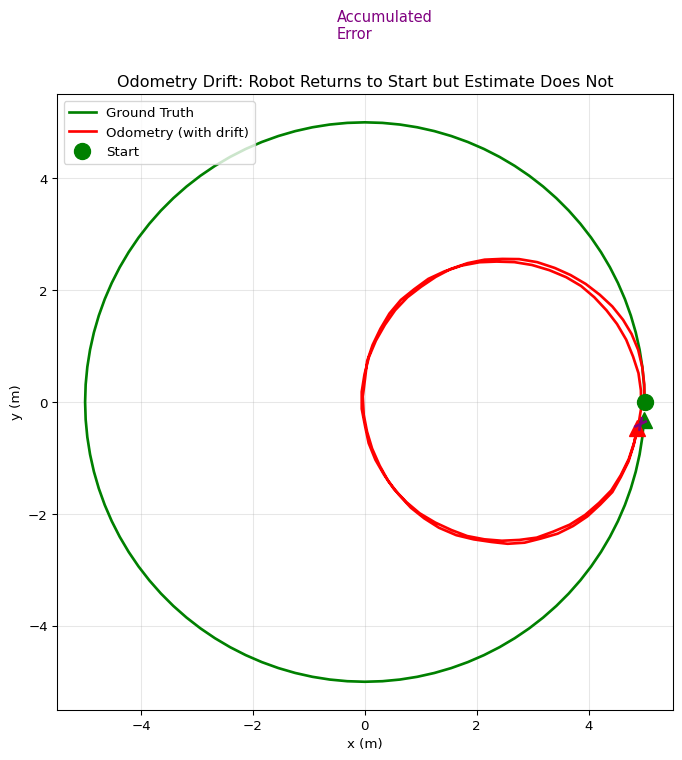
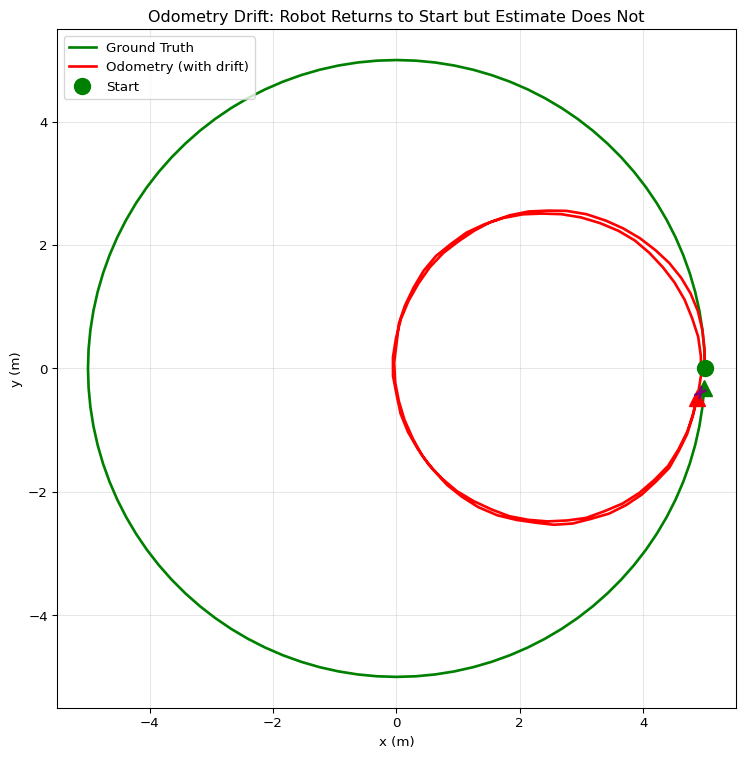
changes to odometry

diff --git a/lio.html b/lio.html
@@ -304,7 +304,7 @@ T^{-1} = T_{A}^{B} = \begin{bmatrix} R^T &amp; -R^T \mathbf{t} \\ \mathbf{0}^T &
 \]</span></p>
 </div>
 </section>
-<section id="extrinsic-calibration" class="slide level2">
+<section id="extrinsic-calibration" class="slide level2 smaller">
 <h2>Extrinsic Calibration</h2>
 <p>The transformation between rigidly mounted sensors is <strong>constant</strong>:</p>
 <ul>
@@ -336,7 +336,7 @@ T^{-1} = T_{A}^{B} = \begin{bmatrix} R^T &amp; -R^T \mathbf{t} \\ \mathbf{0}^T &
 </section>
 <section id="example-lidar-point-to-world-frame" class="slide level2">
 <h2>Example: LiDAR Point to World Frame</h2>
-<div id="24ff777d" class="cell" data-execution_count="2">
+<div id="0532bd00" class="cell" data-execution_count="2">
 <div class="sourceCode cell-code" id="cb1"><pre class="sourceCode numberSource python number-lines code-with-copy"><code class="sourceCode python"><span id="cb1-1"><a></a><span class="im">import</span> numpy <span class="im">as</span> np</span>
 <span id="cb1-2"><a></a></span>
 <span id="cb1-3"><a></a><span class="kw">def</span> make_se2(theta, tx, ty):</span>
@@ -363,7 +363,7 @@ T^{-1} = T_{A}^{B} = \begin{bmatrix} R^T &amp; -R^T \mathbf{t} \\ \mathbf{0}^T &
 </section>
 <section id="visualizing-the-transform-chain" class="slide level2">
 <h2>Visualizing the Transform Chain</h2>
-<div id="14b6c4d0" class="cell" data-execution_count="3">
+<div id="b01fd19e" class="cell" data-execution_count="3">
 <details class="code-fold">
 <summary>Code</summary>
 <div class="sourceCode cell-code" id="cb3"><pre class="sourceCode numberSource python number-lines code-with-copy"><code class="sourceCode python"><span id="cb3-1"><a></a>fig, ax <span class="op">=</span> plt.subplots(figsize<span class="op">=</span>(<span class="dv">8</span>, <span class="dv">6</span>))</span>
@@ -477,11 +477,11 @@ p^{A} &amp;= R\ p^{B} + d
 <h2>Example: Coordinate Transform vs Rigid Motion</h2>
 
 <img data-src="assets/images/trans-v-rigid-3.png" style="width:100.0%" class="r-stretch"><ul>
-<li><strong>Top row:</strong> Coordinate transform <span class="math inline">\(\left(R_B^A\right)^{-1}\)</span> - fixed points in moving frame</li>
-<li><strong>Bottom row:</strong> Rigid motion <span class="math inline">\(R_B^A\)</span> - moving points in fixed frame</li>
+<li><strong>Top row:</strong> Coordinate transform <span class="math inline">\(\left(R_B^A\right)^{-1}\)</span> - fixed points in <span class="math inline">\(A\)</span> seen by moving frame <span class="math inline">\(B\)</span></li>
+<li><strong>Bottom row:</strong> Rigid motion <span class="math inline">\(R_B^A\)</span> - fixed points in moving frame <span class="math inline">\(B\)</span> seen by fixed frame <span class="math inline">\(A\)</span></li>
 </ul>
 </section>
-<section id="special-euclidean-group-mathrmse3" class="slide level2">
+<section id="special-euclidean-group-mathrmse3" class="slide level2 smaller">
 <h2>Special Euclidean Group <span class="math inline">\(\mathrm{SE}(3)\)</span></h2>
 <div class="callout callout-important callout-titled callout-style-default">
 <div class="callout-body">
@@ -493,16 +493,22 @@ p^{A} &amp;= R\ p^{B} + d
 </div>
 <div class="callout-content">
 <p>Coordinates of points in 3D Euclidean space = <span class="math inline">\(p^A \in \mathbb{R}^3\)</span></p>
-<p>Coordinates of cartesian frames in 3D Euclidean space = <span class="math inline">\((d,R) \in \mathbb{R}^3 \times \mathrm{SO}(3)\)</span></p>
+<p>Coordinates of cartesian frames in 3D Euclidean space = <span class="math inline">\((d,R) \in \mathrm{SE}(3) = \mathbb{R}^3 \times \mathrm{SO}(3)\)</span></p>
 </div>
 </div>
 </div>
 <p><strong>Points : Euclidean Space :: Cartesian Frames : Special Euclidean Group</strong></p>
-<p>Affine Space : Euclidean Space :: <span class="math inline">\(G\)</span>-Torsor : Special Euclidean Group</p>
-<p><span class="math inline">\(G\)</span>-Torsor: A group <span class="math inline">\(G\)</span> with an action that maps a group element to another group element</p>
-<p>Again, no coordinate frame is unique.</p>
-<p>For a <span class="math inline">\(G\)</span>-Torsor, we don’t define origin+basis (not a vector space).</p>
-<p>Instead, we define an identity element (it’s a group): the reference coordinate frame.</p>
+<ul>
+<li><p><span class="math inline">\(G\)</span>-Torsor: A group <span class="math inline">\(G\)</span> with an action that maps a group element to another group element</p></li>
+<li><p>No coordinate frame is unique.</p></li>
+<li><p>For <span class="math inline">\(\mathrm{SE}(3)\)</span>, a <span class="math inline">\(G\)</span>-Torsor, we don’t define origin+basis (not a vector space).</p></li>
+<li><p>Instead, we define an identity element (it’s a group): the reference coordinate frame.</p></li>
+</ul>
+</section></section>
+<section>
+<section id="odometry-sneak-peek" class="title-slide slide level1 center">
+<h1>Odometry: Sneak Peek</h1>
+
 </section>
 <section id="the-odometry-problem" class="slide level2">
 <h2>The Odometry Problem</h2>
@@ -550,7 +556,7 @@ T_{ B_{k+1}}^{W} = T_{ B_k}^{W} \cdot T_{ B_{k+1}}^{B_k}
 </section>
 <section id="drift-in-lidar-odometry" class="slide level2">
 <h2>Drift in LiDAR Odometry</h2>
-<div id="0b6f72de" class="cell" data-execution_count="4">
+<div id="e90a6903" class="cell" data-execution_count="4">
 <details class="code-fold">
 <summary>Code</summary>
 <div class="sourceCode cell-code" id="cb4"><pre class="sourceCode numberSource python number-lines code-with-copy"><code class="sourceCode python"><span id="cb4-1"><a></a>np.random.seed(<span class="dv">42</span>)</span>
@@ -606,7 +612,7 @@ T_{ B_{k+1}}^{W} = T_{ B_k}^{W} \cdot T_{ B_{k+1}}^{B_k}
 <span id="cb4-51"><a></a>ax.annotate(<span class="st">''</span>, xy<span class="op">=</span>(noisy_poses[<span class="op">-</span><span class="dv">1</span>, <span class="dv">0</span>], noisy_poses[<span class="op">-</span><span class="dv">1</span>, <span class="dv">1</span>]),</span>
 <span id="cb4-52"><a></a>            xytext<span class="op">=</span>(true_poses[<span class="op">-</span><span class="dv">1</span>, <span class="dv">0</span>], true_poses[<span class="op">-</span><span class="dv">1</span>, <span class="dv">1</span>]),</span>
 <span id="cb4-53"><a></a>            arrowprops<span class="op">=</span><span class="bu">dict</span>(arrowstyle<span class="op">=</span><span class="st">'&lt;-&gt;'</span>, color<span class="op">=</span><span class="st">'purple'</span>, lw<span class="op">=</span><span class="dv">2</span>))</span>
-<span id="cb4-54"><a></a>ax.text(<span class="op">-</span><span class="fl">0.5</span>, <span class="fl">6.5</span>, <span class="st">'Accumulated</span><span class="ch">\n</span><span class="st">Error'</span>, fontsize<span class="op">=</span><span class="dv">11</span>, color<span class="op">=</span><span class="st">'purple'</span>)</span>
+<span id="cb4-54"><a></a><span class="co">#ax.text(-0.5, 6.5, 'Accumulated\nError', fontsize=11, color='purple')</span></span>
 <span id="cb4-55"><a></a></span>
 <span id="cb4-56"><a></a>ax.set_xlabel(<span class="st">'x (m)'</span>)</span>
 <span id="cb4-57"><a></a>ax.set_ylabel(<span class="st">'y (m)'</span>)</span>
@@ -665,19 +671,16 @@ T_{ B_{k+1}}^{W} = T_{ B_k}^{W} \cdot T_{ B_{k+1}}^{B_k}
 <p><strong>Gyroscope</strong> (simpler case): <span class="math display">\[
 \omega^{meas} = \omega^{true} + b_\omega + n_\omega
 \]</span></p>
-<div class="fragment">
 <p><strong>Accelerometer</strong> (includes gravity): <span class="math display">\[
 a^{meas} = R^T(a^{true} - g) + b_a + n_a
 \]</span></p>
-</div>
-<div class="fragment">
 <p>where:</p>
 <ul>
-<li><span class="math inline">\(b\)</span>: slowly varying bias</li>
-<li><span class="math inline">\(n\)</span>: white noise</li>
+<li><span class="math inline">\(b_{(\cdot)}\)</span>: slowly varying bias</li>
+<li><span class="math inline">\(n_{(\cdot)}\)</span>: white noise</li>
 <li><span class="math inline">\(g\)</span>: gravity vector (≈ 9.81 m/s² pointing down)</li>
+<li><span class="math inline">\(R\)</span>: Orientation of IMU-fixed frame relative to ground</li>
 </ul>
-</div>
 </section>
 <section id="dead-reckoning-with-imu" class="slide level2">
 <h2>Dead Reckoning with IMU</h2>
@@ -728,7 +731,7 @@ y(t) &amp;= y_0 + \int_0^t v_y(\tau) \, d\tau
 </section>
 <section id="the-double-integration-problem" class="slide level2">
 <h2>The Double Integration Problem</h2>
-<div id="2ecefc38" class="cell" data-execution_count="5">
+<div id="72073c5c" class="cell" data-execution_count="5">
 <details class="code-fold">
 <summary>Code</summary>
 <div class="sourceCode cell-code" id="cb5"><pre class="sourceCode numberSource python number-lines code-with-copy"><code class="sourceCode python"><span id="cb5-1"><a></a>np.random.seed(<span class="dv">123</span>)</span>
@@ -779,7 +782,7 @@ y(t) &amp;= y_0 + \int_0^t v_y(\tau) \, d\tau
 <span id="cb5-46"><a></a>axes[<span class="dv">2</span>].plot(<span class="dv">0</span>, <span class="dv">0</span>, <span class="st">'go'</span>, markersize<span class="op">=</span><span class="dv">10</span>, label<span class="op">=</span><span class="st">'True position'</span>)</span>
 <span id="cb5-47"><a></a>axes[<span class="dv">2</span>].set_xlabel(<span class="st">'x (m)'</span>)</span>
 <span id="cb5-48"><a></a>axes[<span class="dv">2</span>].set_ylabel(<span class="st">'y (m)'</span>)</span>
-<span id="cb5-49"><a></a>axes[<span class="dv">2</span>].set_title(<span class="st">'Trajectory (robot is stationary!)'</span>)</span>
+<span id="cb5-49"><a></a>axes[<span class="dv">2</span>].set_title(<span class="st">'Estimated Trajectory (robot is stationary!)'</span>)</span>
 <span id="cb5-50"><a></a>axes[<span class="dv">2</span>].legend()</span>
 <span id="cb5-51"><a></a>axes[<span class="dv">2</span>].grid(<span class="va">True</span>, alpha<span class="op">=</span><span class="fl">0.3</span>)</span>
 <span id="cb5-52"><a></a>axes[<span class="dv">2</span>].set_aspect(<span class="st">'equal'</span>)</span>
@@ -874,14 +877,10 @@ Bias: [0.01  0.005] m/s² → Position drift ≈ 0.5 * bias * t² = 0.50 m</code
 <p><strong>Linear velocity</strong> (at robot center): <span class="math display">\[
 v = \frac{v_R + v_L}{2}
 \]</span></p>
-<div class="fragment">
 <p><strong>Angular velocity</strong>: <span class="math display">\[
 \omega = \frac{v_R - v_L}{L}
 \]</span></p>
-</div>
-<div class="fragment">
 <p>From encoder ticks: <span class="math inline">\(v = r \cdot \dot{\phi}\)</span> where <span class="math inline">\(\dot{\phi}\)</span> is wheel angular velocity</p>
-</div>
 </section>
 <section id="wheel-odometry-integration" class="slide level2">
 <h2>Wheel Odometry Integration</h2>
@@ -911,7 +910,7 @@ y_{k+1} &amp;= y_k + v_k \sin(\theta_k) \cdot \Delta t \\
 </section>
 <section id="wheel-odometry-implementation" class="slide level2">
 <h2>Wheel Odometry Implementation</h2>
-<div id="e76fd02a" class="cell" data-execution_count="7">
+<div id="687e1064" class="cell" data-execution_count="7">
 <div class="sourceCode cell-code" id="cb7"><pre class="sourceCode numberSource python number-lines code-with-copy"><code class="sourceCode python"><span id="cb7-1"><a></a><span class="kw">def</span> wheel_odometry(v_left, v_right, L, dt, x0<span class="op">=</span><span class="dv">0</span>, y0<span class="op">=</span><span class="dv">0</span>, theta0<span class="op">=</span><span class="dv">0</span>):</span>
 <span id="cb7-2"><a></a>    <span class="co">"""</span></span>
 <span id="cb7-3"><a></a><span class="co">    Compute odometry from wheel velocities.</span></span>
@@ -1051,7 +1050,7 @@ T_{B_{k+1}, init}^{B_k} = \hat{T}_{B_{k+1}, IMU}^{B_k}
 <div class="fragment">
 <p><strong>De-skewing</strong>: Use IMU to estimate pose at each point’s timestamp, then transform all points to a common frame</p>
 </div>
-<div id="c3cc8d2c" class="cell" data-execution_count="10">
+<div id="43946cff" class="cell" data-execution_count="10">
 <details class="code-fold">
 <summary>Code</summary>
 <div class="sourceCode cell-code" id="cb8"><pre class="sourceCode numberSource python number-lines code-with-copy"><code class="sourceCode python"><span id="cb8-1"><a></a>np.random.seed(<span class="dv">789</span>)</span>
@@ -1111,7 +1110,7 @@ T_{B_{k+1}, init}^{B_k} = \hat{T}_{B_{k+1}, IMU}^{B_k}
 <li>Simple to implement, effective in practice</li>
 </ul>
 </div>
-<div id="3a78b2c6" class="cell" data-execution_count="11">
+<div id="f85b49bf" class="cell" data-execution_count="11">
 <details class="code-fold">
 <summary>Code</summary>
 <div class="sourceCode cell-code" id="cb9"><pre class="sourceCode numberSource python number-lines code-with-copy"><code class="sourceCode python"><span id="cb9-1"><a></a><span class="kw">def</span> complementary_filter(theta_scan, theta_prev, omega_gyro, dt, alpha<span class="op">=</span><span class="fl">0.98</span>):</span>
